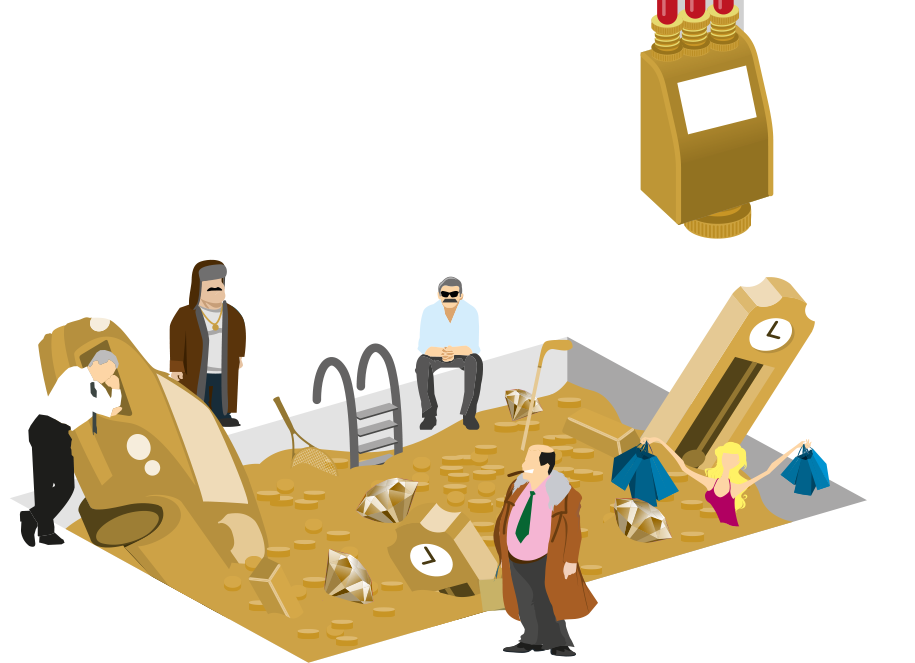
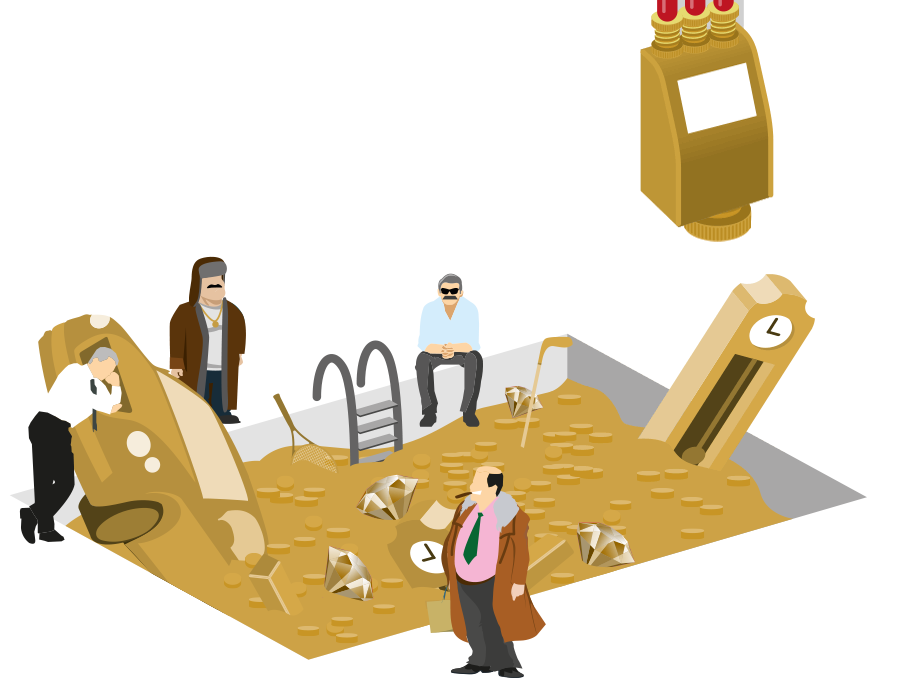
Add subtile animation to illustrations.

diff --git a/css/russlandhaus.scss b/css/russlandhaus.scss
@@ -1,5 +1,5 @@
 ---
-# Only the main Sass file needs front matter (the dashes are enough)
+# main scss file for https://github.com/correctiv/russlandhaus/
 ---
 @charset "utf-8";
 
@@ -46,20 +46,98 @@
   background-image: url(../images/0_background4.png);
 }
 
-.russlandhaus__section.-section-5 figure {
+.russlandhaus__section figure {
   display: block;
   position: relative;
   z-index: 0;
 }
 
-.russlandhaus__section.-section-5 figure:before {
+%russlandhaus__animation {
   content: "";
-  width: 210px;
-  height: 456px;
-  background-image: url(../images/0_animation5.gif);
   display: block;
   position: absolute;
-  top: 29px;
-  left: 533px;
   z-index: 2;
+  background-repeat: no-repeat;
+}
+
+.russlandhaus__section.-section-1 figure:before {
+  @extend %russlandhaus__animation;
+  width: 210px;
+  height: 456px;
+  top: 195px;
+  left: 583px;
+  background-image: url(../images/0_animation1a.gif);
+}
+
+.russlandhaus__section.-section-1 figure:after {
+  @extend %russlandhaus__animation;
+  width: 34px;
+  height: 57px;
+  top: 99px;
+  left: 500px;
+  background-image: url(../images/0_animation1b.gif);
+}
+
+.russlandhaus__section.-section-2 figure:before {
+  @extend %russlandhaus__animation;
+  width: 210px;
+  height: 456px;
+  top: 24px;
+  left: 263px;
+  background-image: url(../images/0_animation2a.gif);
+}
+
+.russlandhaus__section.-section-2 figure:after {
+  @extend %russlandhaus__animation;
+  width: 234px;
+  height: 488px;
+  top: 9px;
+  left: 573px;
+  background-image: url(../images/0_animation2b.gif);
+}
+
+
+.russlandhaus__section.-section-3 figure:before {
+  @extend %russlandhaus__animation;
+  width: 349px;
+  height: 183px;
+  top: 209px;
+  left: 89px;
+  background-image: url(../images/0_animation3a.gif);
+}
+
+.russlandhaus__section.-section-3 figure:after {
+  @extend %russlandhaus__animation;
+  width: 167px;
+  height: 494px;
+  top: 21px;
+  left: 536px;
+  background-image: url(../images/0_animation3b.gif);
+}
+
+.russlandhaus__section.-section-4 figure:before {
+  @extend %russlandhaus__animation;
+  width: 526px;
+  height: 167px;
+  top: 16px;
+  left: 255px;
+  background-image: url(../images/0_animation4a.gif);
+}
+
+.russlandhaus__section.-section-4 figure:after {
+  @extend %russlandhaus__animation;
+  width: 834px;
+  height: 255px;
+  top: 195px;
+  left: -34px;
+  background-image: url(../images/0_animation4b.gif);
+}
+
+.russlandhaus__section.-section-5 figure:before {
+  @extend %russlandhaus__animation;
+  width: 210px;
+  height: 456px;
+  top: 26px;
+  left: 533px;
+  background-image: url(../images/0_animation5.gif);
 }
